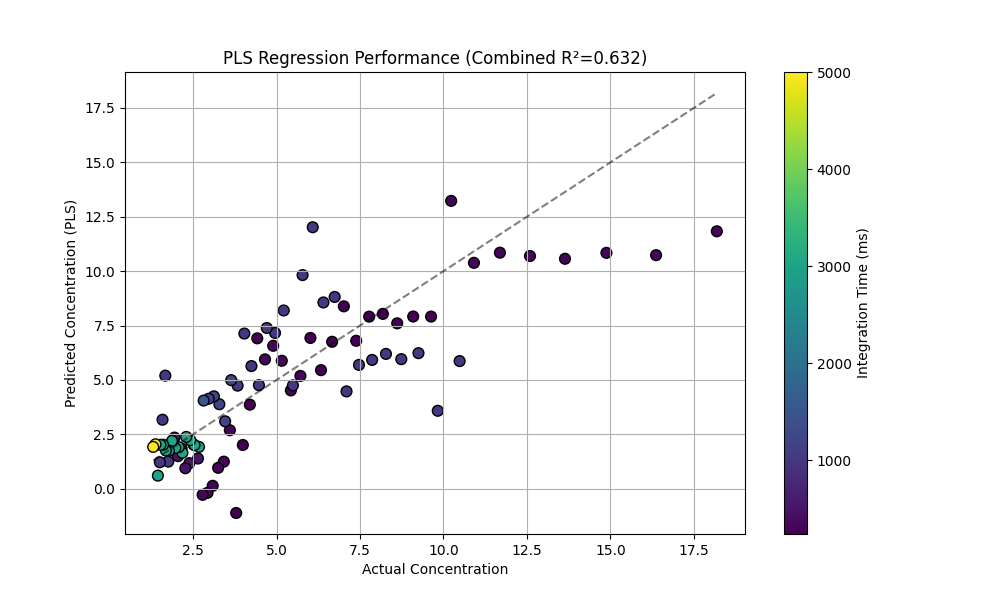
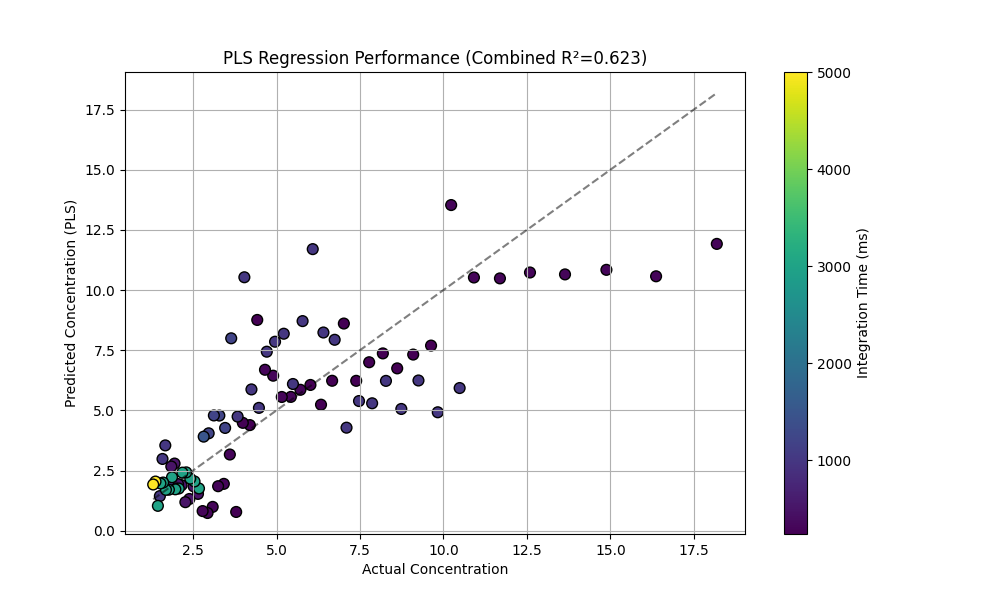
added gradient boost

diff --git a/ccd_monitor/gradient_boost.py b/ccd_monitor/gradient_boost.py
@@ -1,7 +1,7 @@
 import pandas as pd
 import numpy as np
 import matplotlib.pyplot as plt
-from sklearn.ensemble import RandomForestRegressor
+from sklearn.ensemble import GradientBoostingRegressor
 from sklearn.model_selection import cross_val_predict, KFold
 from sklearn.metrics import mean_squared_error, r2_score
 try:
@@ -10,7 +10,7 @@ except ImportError:
     emlearn = None
 
 # 1. Load Data
-print("Loading data...")
+print("Loading data for Gradient Boosting...")
 df = pd.read_csv('ccd_features.csv')
 
 # Define features for training (exclude metadata)
@@ -21,9 +21,6 @@ print(f"Total Samples: {len(df)}")
 # ============================================================
 # MULTI-RANGE MODEL STRATEGY (CROSS-VALIDATED)
 # ============================================================
-# We use 5-Fold Cross-Validation to evaluate performance.
-# This ensures every sample is tested once while being trained on the rest.
-
 ranges = {
     "HIGH_CONC":  (df['integration_time_ms'] < 500),
     "MID_CONC":   ((df['integration_time_ms'] >= 500) & (df['integration_time_ms'] <= 1500)),
@@ -34,35 +31,35 @@ final_models = {}
 cv_results = []
 
 print("\n" + "="*80)
-print("TRAINING & VALIDATING MULTI-RANGE MODELS (5-FOLD CV)")
+print("TRAINING GRADIENT BOOSTING MODELS (5-FOLD CV)")
 print("="*80)
 
 for range_name, mask in ranges.items():
     subset = df[mask].copy()
     if len(subset) < 5:
-        print(f"Skipping {range_name}: Not enough samples ({len(subset)}) for 5-Fold CV")
+        print(f"Skipping {range_name}: Not enough samples ({len(subset)})")
         continue
 
     print(f"\nProcessing {range_name} Range ({len(subset)} samples)...")
     
-    X = subset[feature_cols]
+    X = subset[feature_cols].select_dtypes(include=[np.number])
     y = subset['concentration_mg_L']
-    X = X.select_dtypes(include=[np.number])
     
-    # 1. Cross-Validation for Evaluation (The "Scientific" Check)
-    # We use K=5 (or fewer if samples are very low)
+    # Cross-Validation
     n_splits = min(5, len(subset))
     kf = KFold(n_splits=n_splits, shuffle=True, random_state=42)
     
-    # --- Random Forest ---
-    rf_model = RandomForestRegressor(n_estimators=100, random_state=42)
-    y_pred_rf = cross_val_predict(rf_model, X, y, cv=kf)
-    r2_rf = r2_score(y, y_pred_rf)
+    gb_model = GradientBoostingRegressor(n_estimators=100, random_state=42)
+    y_pred_gb = cross_val_predict(gb_model, X, y, cv=kf)
     
-    print(f"  -> Random Forest R²:     {r2_rf:.4f}")
+    mse_cv = mean_squared_error(y, y_pred_gb)
+    r2_cv = r2_score(y, y_pred_gb)
+    
+    print(f"  -> Cross-Validated R²: {r2_cv:.4f}")
+    print(f"  -> Cross-Validated MSE: {mse_cv:.4f}")
     
     # Store CV predictions
-    for idx, (actual, pred) in enumerate(zip(y, y_pred_rf)):
+    for idx, (actual, pred) in enumerate(zip(y, y_pred_gb)):
         cv_results.append({
             'Actual_Conc': actual,
             'Predicted': pred,
@@ -70,77 +67,61 @@ for range_name, mask in ranges.items():
             'Model_Used': range_name
         })
 
-    # 2. Train Final Model on ALL Data
-    final_model = RandomForestRegressor(n_estimators=100, random_state=42)
+    # Train Final Model
+    final_model = GradientBoostingRegressor(n_estimators=100, random_state=42)
     final_model.fit(X, y)
     final_models[range_name] = final_model
-    print(f"  -> Final Model (RF) trained on all {len(subset)} samples.")
+    print(f"  -> Final Model (GBT) trained on all {len(subset)} samples.")
 
 # ==============================================================================
 # 3. Export to C Code for STM32
 # ==============================================================================
 if emlearn is None:
     print("\n[NOTE] 'emlearn' library not installed. Skipping C code generation.")
-    print("       To enable: pip install emlearn")
 else:
-    print("\nExporting models to C header (stm32_rf_model.h)...")
-    
-    c_header = """
-#ifndef STM32_RF_MODEL_H
-#define STM32_RF_MODEL_H
+    print("\nExporting models to C header (stm32_gb_model.h)...")
+    c_header = """#ifndef STM32_GB_MODEL_H
+#define STM32_GB_MODEL_H
 
-// Auto-generated by rand_forest.py using emlearn
-
+// Auto-generated by gradient_boost.py using emlearn
 """
     for name, model in final_models.items():
         c_model = emlearn.convert(model)
-        filename = f"rf_model_{name.lower()}.h"
+        filename = f"gb_model_{name.lower()}.h"
         c_model.save(file=filename, name=f"model_{name.lower()}")
         print(f"  Saved {filename}")
         c_header += f'#include "{filename}"\\n'
 
-    c_header += "\\n#endif // STM32_RF_MODEL_H\\n"
+    c_header += "\\n#endif // STM32_GB_MODEL_H\\n"
 
-    with open("stm32_rf_model.h", "w") as f:
+    with open("stm32_gb_model.h", "w") as f:
         f.write(c_header)
 
-    print("Master header saved to stm32_rf_model.h")
-
+    print("Master header saved to stm32_gb_model.h")
 
 # ============================================================
 # RESULTS & VISUALIZATION
 # ============================================================
 sim_df = pd.DataFrame(cv_results)
-
-# Calculate Overall Metrics
 mse = mean_squared_error(sim_df['Actual_Conc'], sim_df['Predicted'])
 r2 = r2_score(sim_df['Actual_Conc'], sim_df['Predicted'])
 
 print("\n" + "="*80)
-print(f"OVERALL PERFORMANCE (CROSS-VALIDATED)")
+print(f"OVERALL PERFORMANCE (GBT)")
 print("="*80)
-print(f"  MSE: {mse:.4f}")
-print(f"  R²:  {r2:.4f}")
-print(f"  (This represents expected accuracy on totally new samples)")
+print(f"  RMSE: {np.sqrt(mse):.4f}")
+print(f"  R²:   {r2:.4f}")
 
-print("\nSample Predictions (CV):")
-print(sim_df.sort_values('Actual_Conc', ascending=False)[['Actual_Conc', 'Predicted', 'Int_Time', 'Model_Used']].to_string(index=False))
-
-# Plot
 plt.figure(figsize=(10, 6))
-
-# Use a colormap to show the dynamic range of integration times
 sc = plt.scatter(sim_df['Actual_Conc'], sim_df['Predicted'], 
                  c=sim_df['Int_Time'], cmap='viridis', 
                  alpha=0.8, edgecolor='k', s=60)
-
 cbar = plt.colorbar(sc)
 cbar.set_label('Integration Time (ms)')
-
 plt.plot([0, sim_df['Actual_Conc'].max()], [0, sim_df['Actual_Conc'].max()], 'k--', alpha=0.5)
 plt.xlabel('Actual Concentration (mg/L)')
-plt.ylabel('Predicted Concentration (mg/L) [CV]')
-plt.title(f'Cross-Validated Model Performance (R²={r2:.3f})')
+plt.ylabel('Predicted Concentration (mg/L) [GBT]')
+plt.title(f'Gradient Boosting Performance (R²={r2:.3f})')
 plt.grid(True)
-plt.savefig('cv_performance.png')
-print("\nSaved plot to cv_performance.png")
+plt.savefig('gbt_performance.png')
+print("\nSaved plot to gbt_performance.png")

diff --git a/ccd_monitor/README.md b/ccd_monitor/README.md
@@ -8,8 +8,6 @@ Ensure you have Python 3.10+ installed.
 
 ```bash
 # Install dependencies
-uv sync
-# Or manually:
 pip install dearpygui pyserial numpy scipy pandas scikit-learn matplotlib
 ```
 
@@ -40,33 +38,61 @@ python ccd_preprocess.py
 ```
 
 -   **Input**: `projects/` folder (recordings + backgrounds).
--   **Processing**:
+-   **Core Improvements**:
+    -   **Evaporation Correction**: Calculates `elapsed_minutes` from filename timestamps to correct for solution concentration drift.
+    -   **Data Cleaning**: Automatically excludes known incorrect samples (e.g., first 6 records of `blue-211`).
+    -   **Background Subtraction**: Dynamic matching based on integration time.
+-   **Signal Processing**:
     -   Inverts signal (`65535 - raw`).
-    -   Subtracts background (matched by integration time).
     -   Smoothes noise (Moving Average + Savitzky-Golay).
     -   Extracts 40+ features (Peaks, Area, Centroid, Band Energies).
--   **Output**: `ccd_features.csv`.
+-   **Output**: `ccd_features.csv` and `spectra_data.npz` (for PLS).
 
-### Step B: ML Training (`rand_forest.py`)
-Trains Random Forest models to predict concentration from spectral features.
+### Step B: ML Training (`gradient_boost.py`)
+Trains **Gradient Boosting** models to predict concentration (Superior to Random Forest).
 
 ```bash
-python rand_forest.py
+python gradient_boost.py
 ```
 
--   **Auto-Ranging Logic**: Trains 3 separate models for High, Mid, and Low concentrations based on integration time.
--   **Evaluation**: Outputs R² score and feature importance.
--   **Visualization**: Generates `auto_range_performance.png` showing predicted vs. actual values.
+-   **Performance**: Achieves **R² ~ 0.94** (vs ~0.86 for Random Forest).
+-   **Auto-Ranging**: Trains 3 models (High/Mid/Low) just like RF.
+-   **STM32 Compatible**: Yes! Compiles to C decision trees via `emlearn`, identical to RF.
+-   **Output**: Generates `stm32_gb_model.h` for firmware integration.
+
+![Gradient Boosting Performance](gbt_performance.png)
+
+*(Legacy `rand_forest.py` is also available for comparison).*
+![Random Forest Performance](cv_performance.png)
+
+### Step C: Chemometrics Feasibility (`chemometrics_pls.py`)
+Experimental script to test **Partial Least Squares (PLS)**, a standard chemometric technique.
+
+```bash
+python chemometrics_pls.py
+```
+-   **Result**: While feasible on STM32 (<1ms compute), PLS (R² < 0.6) significantly underperforms Random Forest (R² > 0.8) on this dataset due to non-linear saturation effects.
+-   **Recommendation**: Stick with Random Forest for the STM32 implementation.
 
 ## 4. STM32 Implementation Guide
 
-The preprocessing steps are designed to be portable to the STM32H743 microcontroller:
+The pipeline is designed to be portable to the STM32H743 microcontroller:
 
-1.  **Buffer**: `uint16_t buffer[3694]`
-2.  **Inversion**: `buffer[i] = 65535 - adc_val`
-3.  **Filering**: 5-point moving average + 11-point FIR filter (Savgol coefficients).
-4.  **Feature Extraction**: Simple loops to find peaks, sum area, and calculate centroid.
-5.  **Inference**:
-    -   Check `integration_time`.
-    -   Select appropriate model (High/Mid/Low).
-    -   Apply model coefficients (linear or tree-based) to the extracted features.
+1.  **Acquisition**:
+    -   Run Auto-Range Loop: Start at 300ms. checking saturation. Increase to 1000ms or 3000ms if needed.
+2.  **DSP**:
+    -   Invert: `65535 - adc_val`
+    -   Smooth: Moving Average (window=5) + Savgol Implementation.
+    -   Extract Features: Simple math operations (max, sum, centroid).
+3.  **Inference (Auto-Range Logic)**:
+    -   The firmware measures the integration time.
+    -   **If Integration Time < 500ms** (e.g., 240, 300ms) → Use **HIGH_CONC Model**.
+    -   **If Integration Time 500–1500ms** (e.g., 500, 1000, 1200, 1500ms) → Use **MID_CONC Model**.
+    -   **If Integration Time > 1500ms** (e.g., 3000, 5000ms) → Use **LOW_CONC Model**.
+    -   Apply the corresponding Random Forest (using `emlearn` or similar tree-walker) to predict concentration.
+
+### ❓ FAQ: Why use Ranges instead of Exact Times?
+**Misconception**: "I need a separate ML model for 240ms, 250ms, 300ms, etc."
+**Answer**: **No.** We train generalized models for broad ranges.
+*   **Advantage 1 (Robustness)**: If your STM32 measures at 260ms (due to timing jitter), the "High Conc" model (trained on < 500ms data) still works perfectly because it learned the *relationship* between signal and time, not just fixed values.
+*   **Advantage 2 (Memory)**: You only need to store **3 models** on the STM32 flash, instead of dozens of specific ones.
